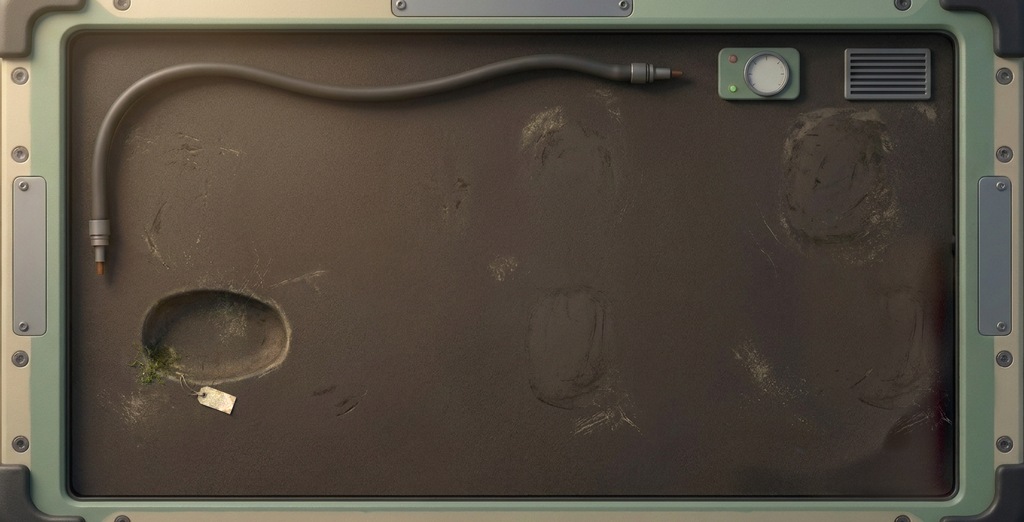
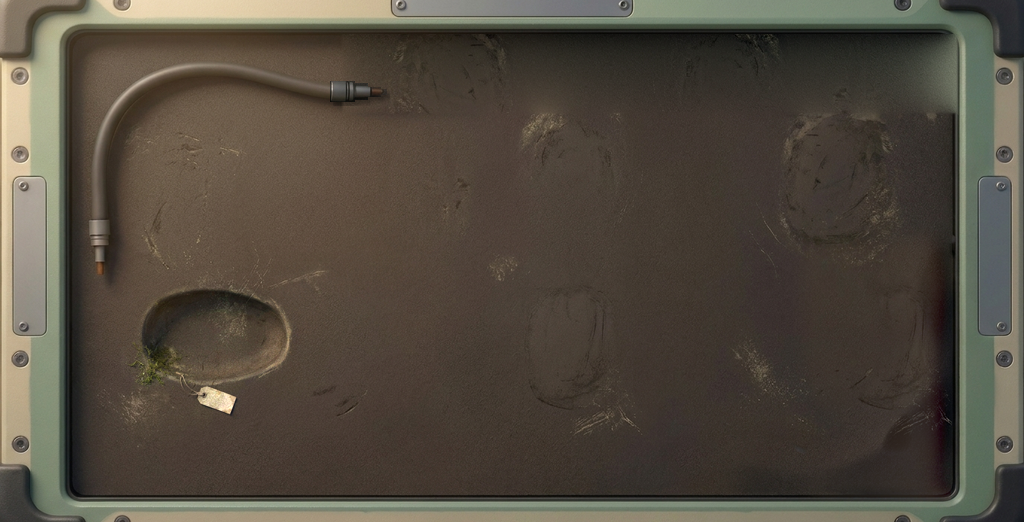
Pods masters: the chapter stage's heading band cleared (hose run, gauge and vent out of 360-952 x 88-136; the hose ends in its fitting)

Changed region(s): [[0.6875, 0.0613, 0.9375, 0.2146], [0.3125, 0.092, 0.6562, 0.2146]]

diff --git a/art/station-masters/pods/stage-recut/clear-heading-band.py b/art/station-masters/pods/stage-recut/clear-heading-band.py
@@ -1,0 +1,78 @@
+"""Gate batch 1 (AD, 10-15, 0 MXN): room-bench-stage-chapter cleared for the two-row chapter page's heading band (screen
+360-952 x 88-136, slice y 48-96). In x 340-960, from the floor's top edge (slice y 34) to y 116, the floor is repainted: its tone a
+harmonic (Laplace) fill from the band's four edges (the wall joint above, the floor below, left and right; the hose's crossing
+of the left edge interpolated), its grain from 90 rows lower, mirrored within the floor, no wrap (so no scuff repeats above itself and no wall line is copied), feathered 4 px.
+That takes out the hose's top run and nozzle, the gauge and the vent (found by local contrast, used only to move the nozzle and
+to mend the left edge). The hose now ends at x 334 in its own brass fitting (the signed nozzle, moved).
+usage: python3 -I clear-heading-band.py IN.png OUT.png"""
+import sys, numpy as np
+from PIL import Image
+from scipy import ndimage as nd
+src, out = sys.argv[1:3]
+a = np.asarray(Image.open(src).convert('RGBA')).astype(float); rgb = a[..., :3].copy(); H, W = rgb.shape[:2]
+X0, X1, Y0, Y1, SH = 340, 960, 34, 116, 90
+yy, xx = np.mgrid[0:H, 0:W]
+box = (xx >= X0) & (xx < X1) & (yy >= Y0) & (yy < Y1)
+med = nd.median_filter(rgb, size=(41, 41, 1))
+dev = np.linalg.norm(rgb - med, axis=-1)
+r, g, b = rgb[..., 0], rgb[..., 1], rgb[..., 2]
+cool = (g >= r - 4) | ((r - b) < 12)                                 # sage, steel, white: never the warm floor
+props = (dev > 22) | cool
+props = nd.binary_opening(props, iterations=1)
+lab, n = nd.label(props & box); sz = nd.sum(props & box, lab, range(1, n + 1))
+props = np.isin(lab, [i + 1 for i, v in enumerate(sz) if v >= 60])  # the props, not the floor's own scuffs
+mask = nd.binary_dilation(nd.binary_closing(props, iterations=3), iterations=5) & box
+# the nozzle to move, from the signed paint
+NB = (slice(56, 92), slice(618, 700)); nb = rgb[NB]
+noz = props[NB] & (xx[NB] >= 618)
+lab2, n2 = nd.label(noz); s2 = nd.sum(noz, lab2, range(1, n2 + 1))
+# the fitting: the components right of the hose's last bend (x >= 630)
+noz = (lab2 == (int(np.argmax(s2)) + 1)) & (xx[NB] >= 630)                 # the fitting: the largest piece right of the bend
+noz = nd.binary_closing(noz, iterations=1)
+ys, xs = np.where(noz); patch = nb[ys.min():ys.max() + 1, xs.min():xs.max() + 1]; pm = noz[ys.min():ys.max() + 1, xs.min():xs.max() + 1]
+# the band's tone: a harmonic (Laplace) fill of the low-passed paint, its boundary the signed paint just outside the band (the
+# wall joint above, the floor below, left and right); where the hose crosses the left edge, the edge is interpolated from the rows
+# above and below. Solved coarse to fine, so the fill meets every edge with no step.
+lp = nd.gaussian_filter(rgb, (2, 2, 0))
+hoseL = props[Y0:Y1, X0 - 12:X0 + 4].any(1)
+if hoseL.any():
+    idx = np.arange(Y1 - Y0); good = ~nd.binary_dilation(hoseL, iterations=4)
+    for c in range(3): lp[Y0:Y1, X0 - 1, c] = np.interp(idx, idx[good], lp[Y0:Y1, X0 - 1, c][good])
+inside = box.copy()
+def harmonic(img, inside, iters):
+    t = img.copy()
+    for _ in range(iters):
+        avg = (np.roll(t, 1, 0) + np.roll(t, -1, 0) + np.roll(t, 1, 1) + np.roll(t, -1, 1)) / 4
+        t[inside] = avg[inside]
+    return t
+sub = lp[Y0 - 4:Y1 + 4, X0 - 4:X1 + 4]; ins = inside[Y0 - 4:Y1 + 4, X0 - 4:X1 + 4]
+small = np.stack([nd.zoom(sub[..., c], 0.25, order=1) for c in range(3)], -1); ins_s = nd.zoom(ins.astype(float), 0.25, order=0) > 0.5
+small = harmonic(small, ins_s, 3000)
+up = np.stack([nd.zoom(small[..., c], (sub.shape[0] / small.shape[0], sub.shape[1] / small.shape[1]), order=1) for c in range(3)], -1)
+init = np.where(ins[..., None], up, sub)
+sol = harmonic(init, ins, 400)
+tone = rgb.copy(); tone[Y0 - 4:Y1 + 4, X0 - 4:X1 + 4] = sol
+GA, GB = X0 + 8, X1 - 16                                               # the grain's source stays on the floor, off both walls
+sx = np.round(GB - 1 - (np.clip(xx, X0, X1 - 1) - X0) * (GB - 1 - GA) / (X1 - 1 - X0)).astype(int)   # mirrored, stretched onto the floor, no wrap
+mir = rgb[np.clip(yy + SH, 0, H - 1), sx]
+grain = mir - nd.gaussian_filter(mir, (6, 6, 0))
+fill = tone + grain * 0.8
+wx = np.clip(np.minimum((xx - X0) / 4, (X1 - 1 - xx) / 4), 0, 1); wy = np.clip((Y1 - 1 - yy) / 4, 0, 1)
+w = np.where(box, np.minimum(wx, wy), 0.0); w = w * w * (3 - 2 * w)
+o = rgb * (1 - w[..., None]) + fill * w[..., None]
+# the fitting, cut by hand from the signed nozzle: steel collar 630-655 x 63-83, second collar 655-668 x 65-81, pin 668-681 x 69-78,
+# brass tip 681-686 x 71-76 (slice px); set at the hose's new end (its left edge on x 330, centred on the hose there), with a soft
+# contact shade below it as the original's
+parts = [(630, 655, 63, 84), (655, 668, 65, 82), (668, 681, 69, 79), (681, 687, 71, 77)]
+pm = np.zeros((22, 57), bool)
+for x0_, x1_, y0_, y1_ in parts: pm[y0_ - 62:y1_ - 62, x0_ - 630:x1_ - 630] = True
+patch = rgb[62:84, 630:687]
+hc = 92                                                      # the hose at x 330: its lit top near y 84, its underside near y 100 (measured)
+ty, tx = hc - 12, 330
+shade = nd.gaussian_filter(np.pad(pm, 4).astype(float), 2.0)[4:-4, 4:-4]
+sh = np.zeros((H, W)); sh[ty + 4:ty + 4 + 22, tx + 3:tx + 3 + 57] = shade
+o = o * (1 - 0.35 * sh[..., None])
+sub = o[ty:ty + 22, tx:tx + 57]; sub[pm] = patch[pm]; o[ty:ty + 22, tx:tx + 57] = sub
+a[..., :3] = np.clip(np.round(o), 0, 255)
+Image.fromarray(a.astype(np.uint8), 'RGBA').save(out)
+print('fitting at', (tx, ty), 'hose centre', hc)

diff --git a/art/station-masters/pods/stage-recut/README.md b/art/station-masters/pods/stage-recut/README.md
@@ -12,3 +12,14 @@ On the overview the old painted stamp case goes with the plate. Fix 4 places `ro
 Proofs at 1×: `proof-chapter-1x.png` and `proof-overview-1x.png` (with the fix 4 case).
 
 **Status:** new. Signed in the whole Pods captures.
+
+## Gate batch 1: the chapter stage's heading band cleared (AD, 10-15, 0 MXN)
+
+The heading row of the two-row chapter page (screen 360–952 × 88–136) ran over the painted hose, the gauge and the vent. `clear-heading-band.py` repaints the floor in x 340–960 from the floor's top edge to slice y 116, which removes the hose's top run, the gauge and the vent there.
+- **Tone:** a harmonic fill from the band's four edges, so the fill meets the signed paint with no step.
+- **Grain:** taken from 90 rows lower, mirrored within the floor.
+- **The hose:** it now ends at x 330 in its own brass fitting, moved from the signed nozzle.
+
+The overview stage keeps its gauge and vent.
+
+Proofs at 1×, mocked into today's captures: `proof-band-six-traits-1x.png` and `proof-band-chapter-page-1x.png`.
